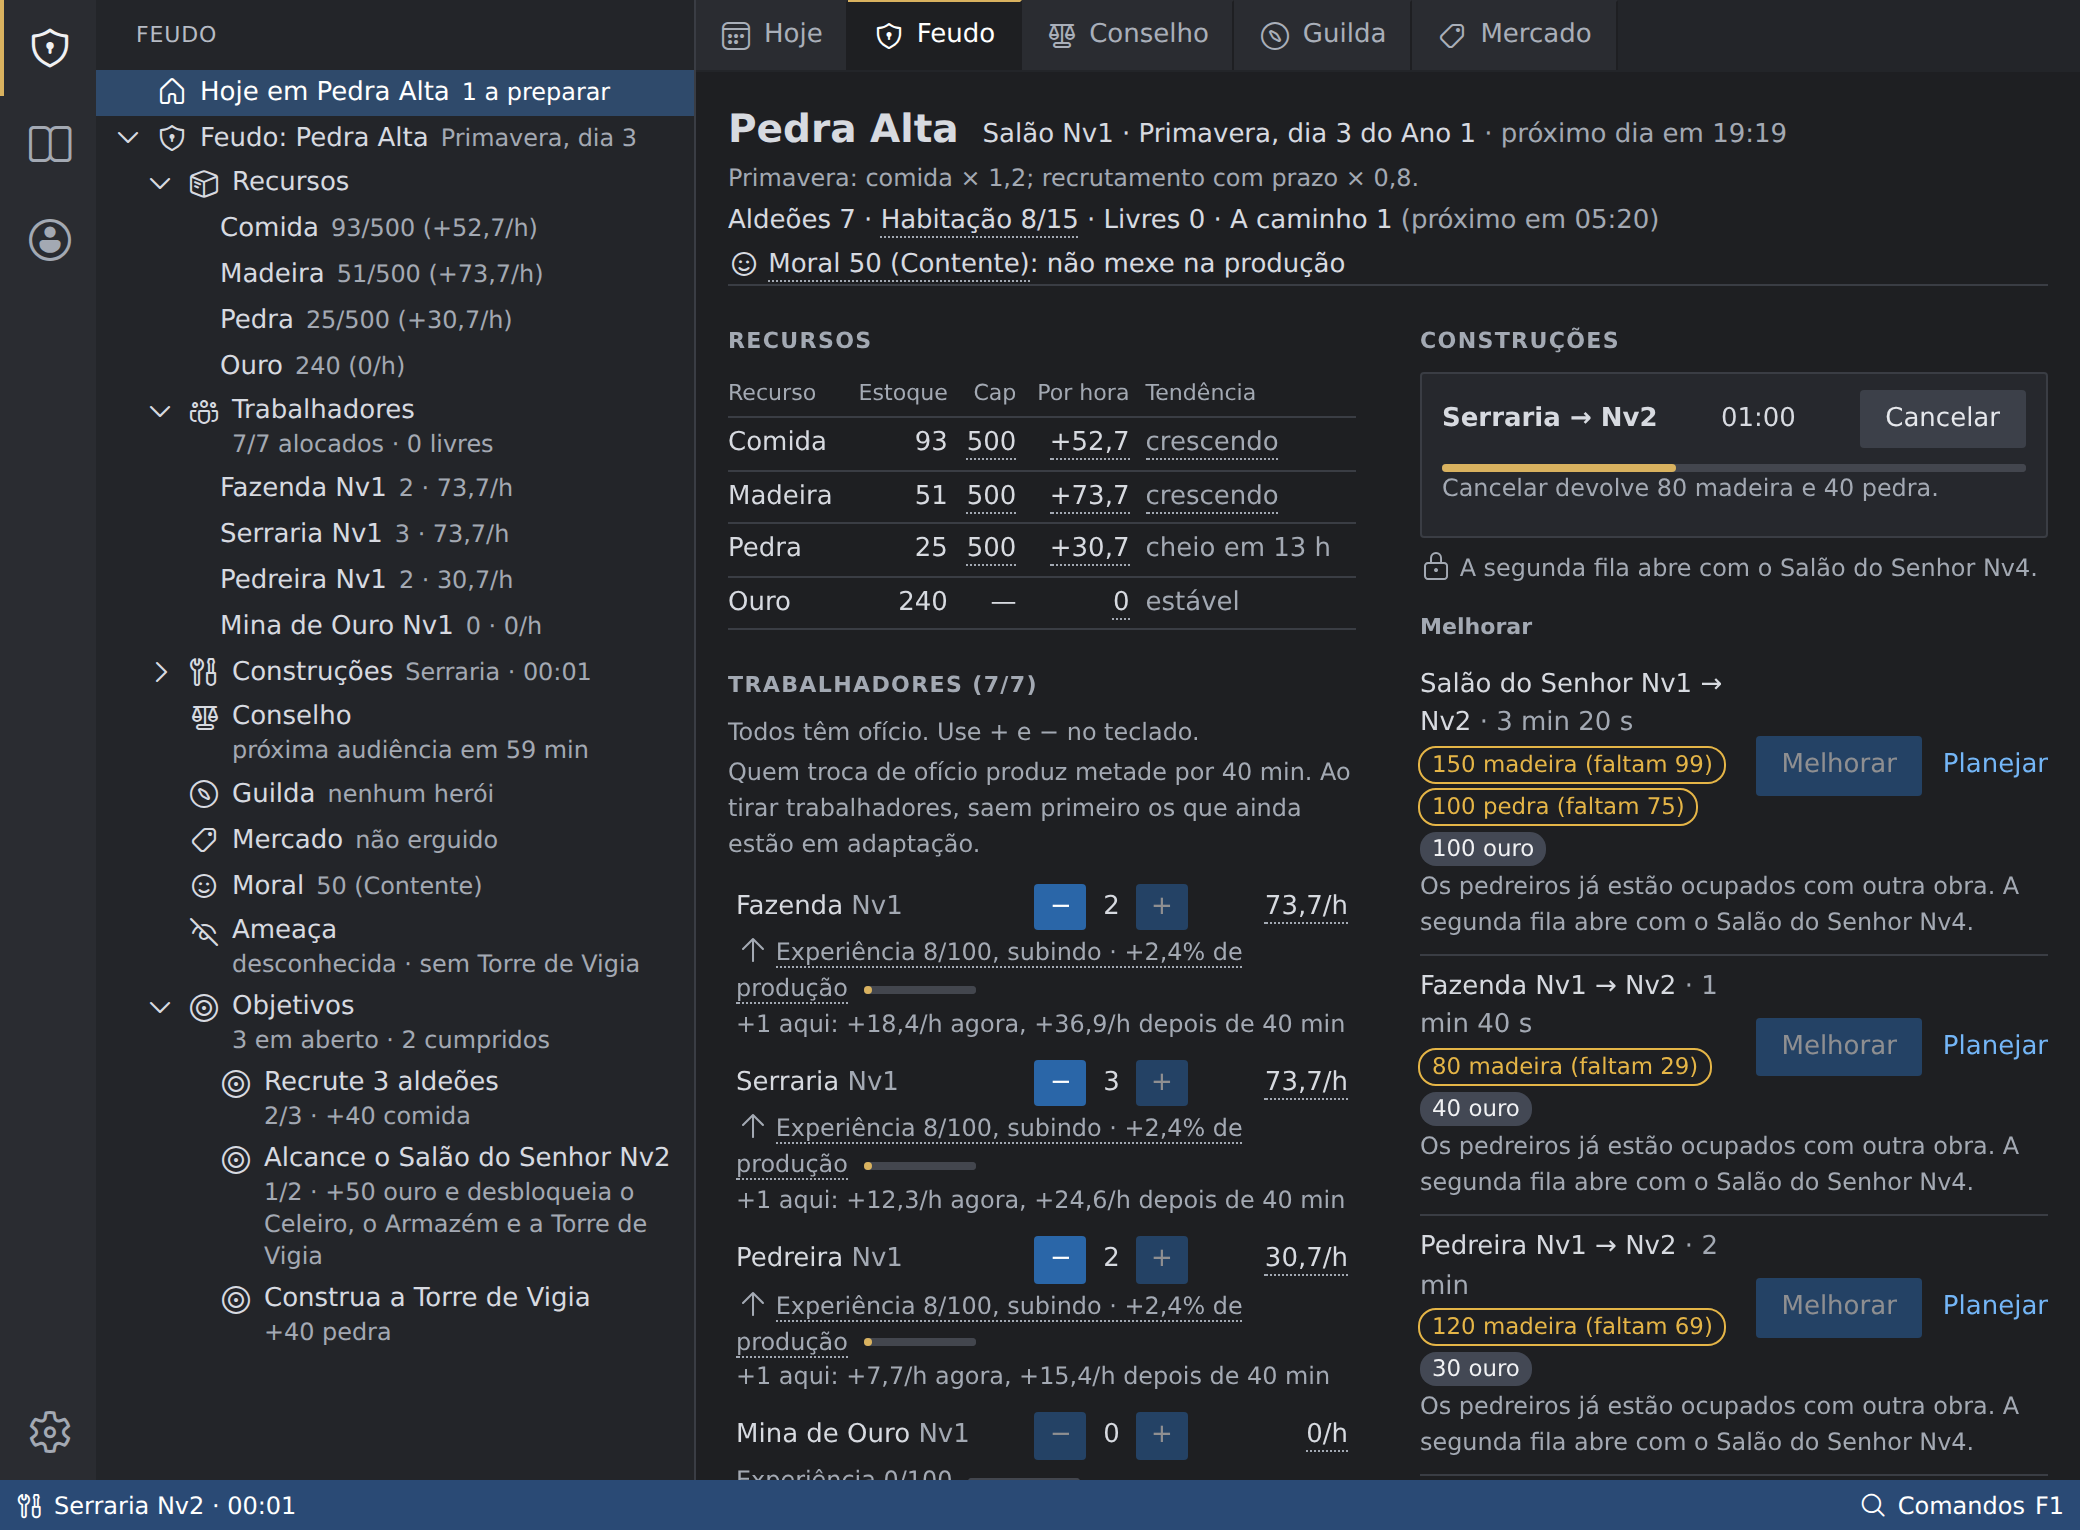
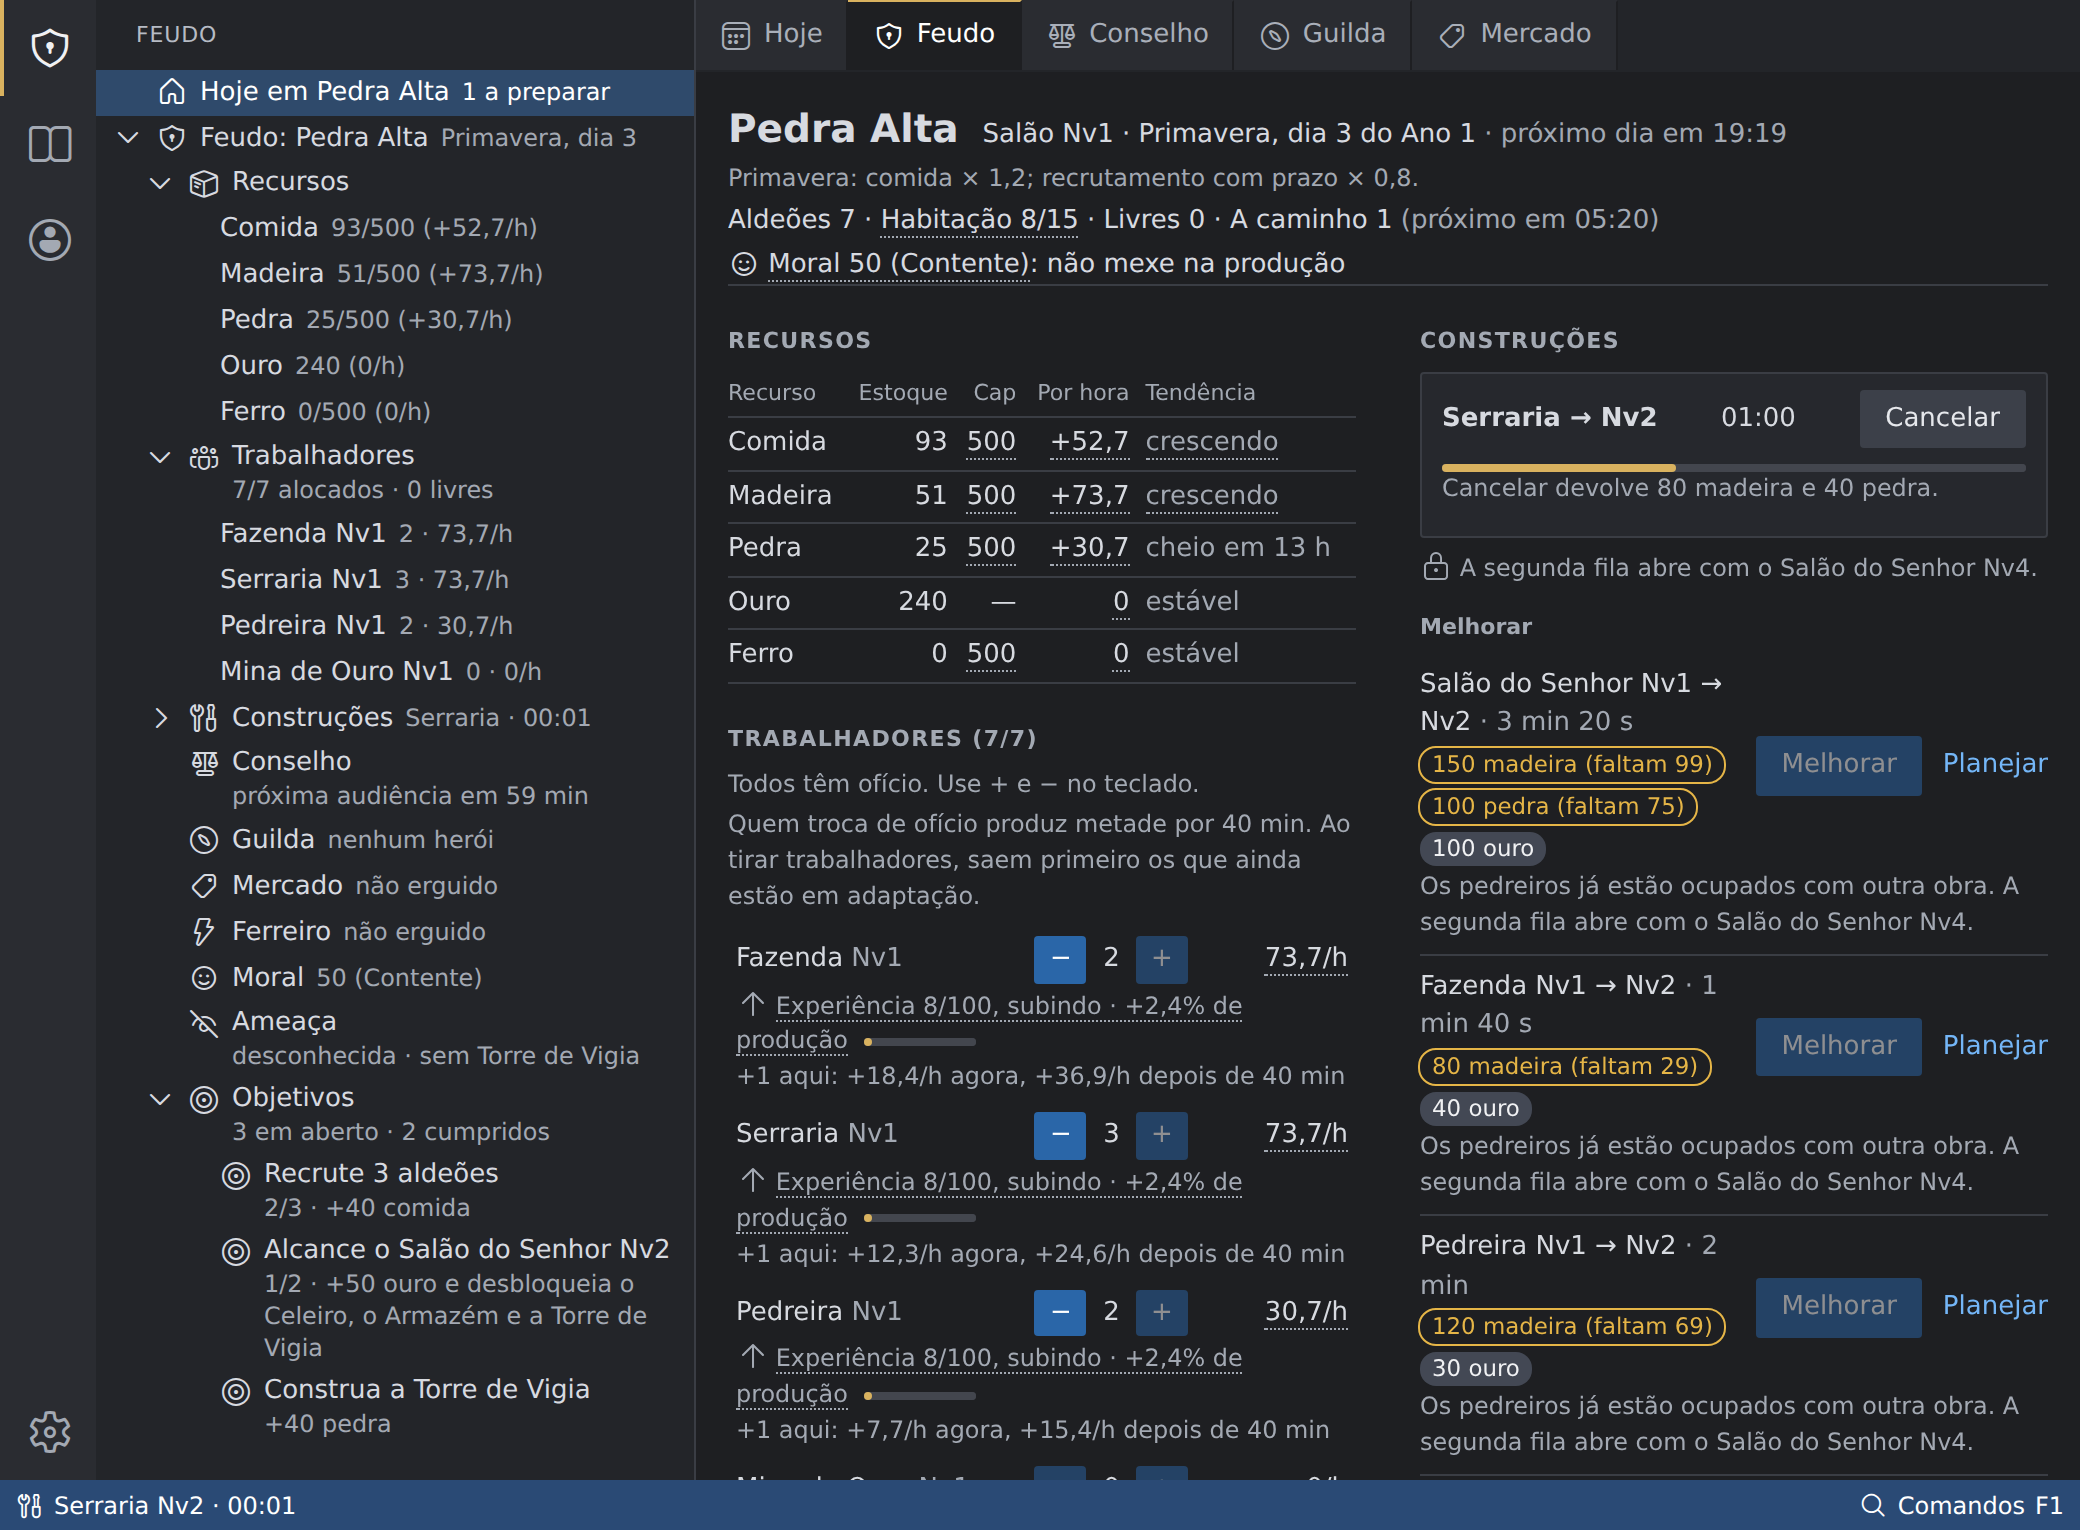
V4B-T4: refaz as capturas da pagina de apresentacao (a arvore ganhou a linha Ferreiro)
REGIONS conforme a nova disposicao; o roteiro de captura estava quebrado desde o ferro (o saque da
expedicao posta nao trazia iron e o servidor recusava o estado). Quatro capturas convertidas e og.png refeito.

Changed region(s): [[0.3438, 0.3993, 0.6562, 0.983], [0.0938, 0.2458, 0.3125, 0.9523], [0.5625, 0.3993, 0.5938, 0.4301]]

diff --git a/tests/landing/capture/landing.capture.ts b/tests/landing/capture/landing.capture.ts
@@ -38,9 +38,9 @@ const TALL = { width: WIDE.width, height: 1100 };
  * falha, porque o rótulo da barra de status ocupa a faixa livre abaixo da árvore.
  */
 const REGIONS = {
-  tree: { x: 4.6, y: 4.5, w: 28.8, h: 85.5 },
-  table: { x: 35, y: 24.3, w: 30.2, h: 16.9 },
-  steppers: { x: 35, y: 57.2, w: 30.2, h: 39.5 },
+  tree: { x: 4.6, y: 4.5, w: 28.8, h: 91.5 },
+  table: { x: 35, y: 24.3, w: 30.2, h: 20.4 },
+  steppers: { x: 35, y: 60.7, w: 30.2, h: 36.1 },
   work: { x: 68.3, y: 24.3, w: 30.2, h: 10.9 },
   status: { x: 0, y: 96.7, w: 100, h: 3.3 },
 } as const;

diff --git a/tests/landing/capture/server.ts b/tests/landing/capture/server.ts
@@ -131,7 +131,7 @@ control.post('/__test/crossroads', async (request) => {
       nodeId: 'fork',
       nodeEndsAtMs: null,
       crossroads: { decidesAtMs: nowMs + Math.round(expiresInMs * scale) },
-      loot: { resources: { food: 0, wood: 0, stone: 0, gold: 0 }, items: [] },
+      loot: { resources: { food: 0, wood: 0, stone: 0, iron: 0, gold: 0 }, items: [] },
       log: [],
     });
     await pool.query('update games set state = $2::jsonb where id = $1', [

diff --git a/packages/landing/src/styles/page.css b/packages/landing/src/styles/page.css
@@ -433,7 +433,7 @@ figcaption,
   }
 
   /*
-   * Árvore lateral: 4,6% a 33,4% na horizontal, 4,5% a 90% na vertical. Ela enche a coluna:
+   * Árvore lateral: 4,6% a 33,4% na horizontal, 4,5% a 96% na vertical. Ela enche a coluna:
    * o rótulo fica no cabeçalho da barra lateral, à direita do título, encostado no topo dela.
    */
   .label-tree {

diff --git a/packages/landing/README.md b/packages/landing/README.md
@@ -99,4 +99,4 @@ A pintura das estações vem de `docs/assets/readme/seasons.png`, redimensionada
 - Os `id` do HTML estão em inglês, como o resto do código; `#conteudo` é a exceção, porque aparece no endereço de quem usa "Pular para o conteúdo".
 - O servidor de pré-visualização do Vite responde 404 sem corpo para endereços desconhecidos; a página de caminho errado com o código 404 é do Caddy, e quem a prova é `scripts/landing-smoke.sh`.
 - Título, texto e endereço da página são propostas a confirmar pelo autor (ADR 0012). O códice de 2026-10-16 (os oito blocos e o texto do ritmo) também: o autor não o viu antes de a página ser feita.
-- As três capturas da aba Feudo são as da V3E-T4: o roteiro foi rodado de novo em 2026-10-16 (a disposição confere, `REGIONS` passou), mas só a captura nova, a da encruzilhada, foi convertida e posta em `src/assets/`; `og.png` saiu igual.
+- As quatro capturas são as da V4B-T4 (2026-10-20): a árvore ganhou a linha "Ferreiro" (e o ferro, na tabela de recursos, já estava desde a V4B-T1), de modo que `REGIONS` mudou (a árvore enche a coluna até a barra de status, a tabela ficou mais alta e os trabalhadores começam mais abaixo) e as quatro foram convertidas de novo; `og.png` foi refeito. O roteiro de captura estava quebrado desde o ferro: a expedição posta por `/__test/crossroads` não trazia `iron` no saque, e o servidor recusava o estado.
